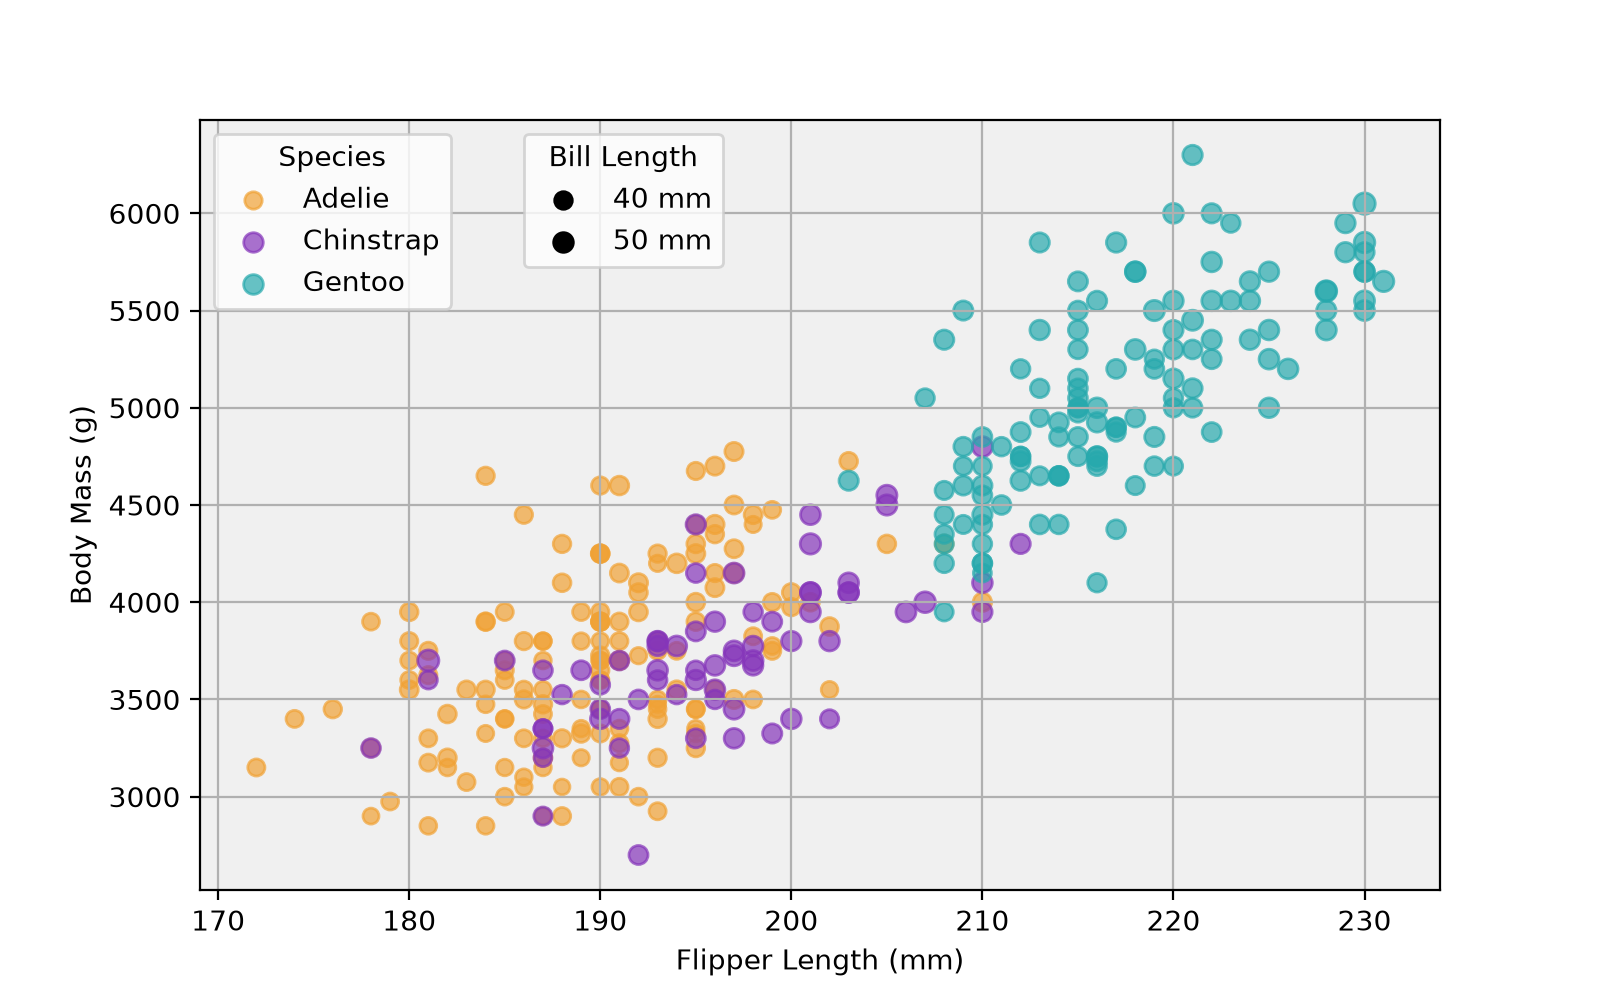
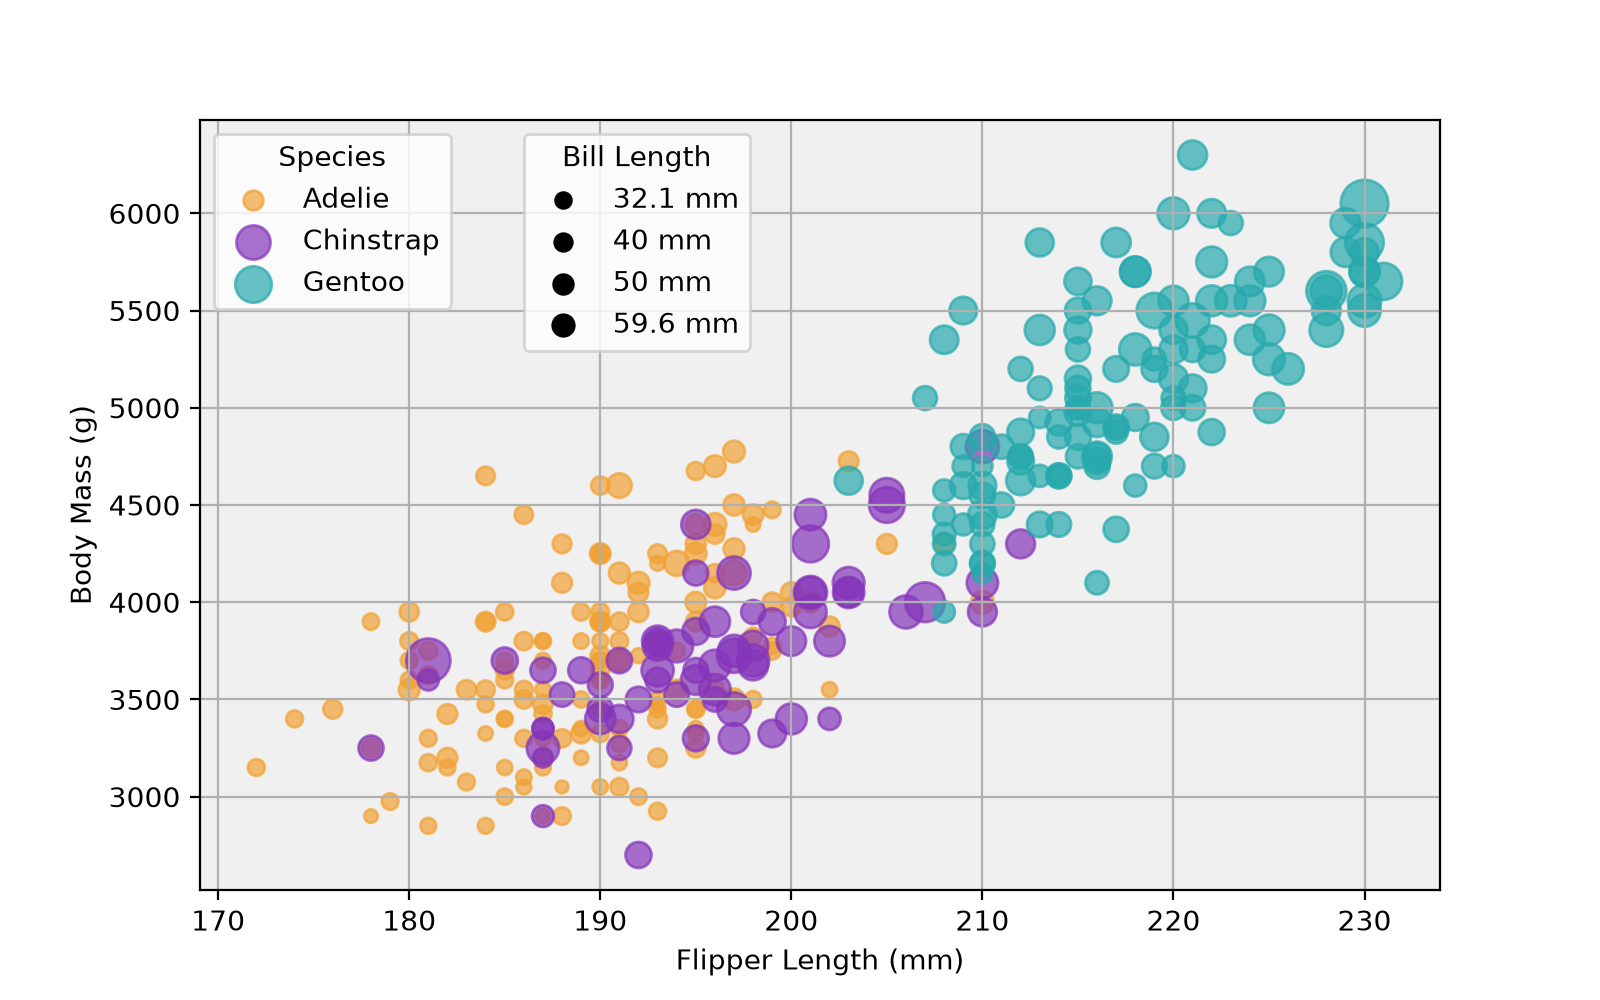
Flourish
Minor edits to graph, and FlourishV1 plot

diff --git a/plot.py b/plot.py
@@ -5,6 +5,7 @@ import matplotlib.pyplot as plt
 data = pd.read_csv("penglings.csv")
 penguin_size = data.bill_length_mm
 data = data.drop(columns = ["island", "sex", "year", "bill_depth_mm"])
+data = data.dropna()
 
 fig, ax = plt.subplots(figsize=(8,5))
 
@@ -18,7 +19,7 @@ for species in colorMap:
     ax.scatter(
         x=subset["flipper_length_mm"],
         y=subset["body_mass_g"],
-        s=(subset["bill_length_mm"]*2.5),
+        s=(1.1**(subset["bill_length_mm"])),
         c=colorMap[species],
         label=species
     )
@@ -32,16 +33,16 @@ ax.grid(True)
 species_legend = plt.legend(title="Species", loc="upper left")
 ax.add_artist(species_legend)
 ##legend two
-size_values = [40, 50]
+size_values = [32.10, 40, 50, 59.60]
 size_handles = [
     plt.scatter([],[],s=v, color="black")
     for v in size_values]
 size_lables= [f"{v} mm" for v in size_values]
 ax.legend(
-    handles=size_handles,
+    handles=np.array(size_handles),
     labels=size_lables,
     title="Bill Length",
     loc="upper left",
     bbox_to_anchor=(0.25, 1)
 )
-plt.savefig("pythonPlt.png",dpi=200)
+plt.savefig("img/pythonPlt.png",dpi=200)

diff --git a/README.md b/README.md
@@ -1,14 +1,24 @@
 Assignment 2 - Data Visualization, 5 Ways  
 ===
+Default:
+![Default](img/ggplot2.png)
+This was the goal that I was attempting to recreate in different tools/libraries
 
 Python with Matplotlib:
 ![matplotLib](img/pythonPlt.png)
 This was fairly easy for a library, although knowing pyhton or having experience definitely helps. I really struggled to get legends to work. Having two seperate legends required a handler. Also I fought with placment of the legends for a long time. I wanted them to be on the right and outside of the graph which seemed doable with "outer upper right" but there were two placement methods and the one that worked with my code did not allow for "outer". I also had to offset the second legend so they were readable. 
+I set the size of the dots to be 1.1^(bill_length_mm) which made the change in size more distinct wile still being readable. For some reason this made the legends a bit weird where the Species legend ended up having diffent sized dots. I don't know what exactly the size is based on but I would assume it was the average size per species. Annoyingly the size legend didn't actually show that much of a difference. This is why I used exponential in the data drawing portion, but I was unable to appy that change to the legend.
 Shout out to Benjamin Greenwood for his help with coding
 
 Tableau:
-![Tableu](img/Tabbleu_penguin.png)
-This was extremely easy. In total took me maybe 15 minutes. At first I found tableau public desktop to be a bit confulsing, but quickly learned that it worked by dragging data attributes onto graph attributes. For example dragging Species onto the color icon to get points to be colored by species. This was amazing and I would love to use it again in the future. Intrestingly I notices that there were more "bill_length_mm" than in the example and I do not know why exactly, but I think the overal outcome is the same. 
+![Tableau_2ndVersion](img/Tableau_update.png)
+This was extremely easy. In total took me maybe 15 minutes. At first I found tableau public desktop to be a bit confulsing, but quickly learned that it worked by dragging data attributes onto graph attributes. For example dragging Species onto the color icon to get points to be colored by species. This was amazing and I would love to use it again in the future. Intrestingly I notices that there were more "bill_length_mm" than in the example and I do not know why exactly, but I think the overal outcome is the same.
+Version 2: I changed the colors and messed around with size to make the scaling more noticable. I had used "Edit in Shef" then 2*[Bill_length_mm] but then the legend was only showing the multiplied version, so I undid that. 
+
+D3 and JS:
+
+Fourish:
+![Flourish](img/Flourish_penguin.png)
 
 
 These features should be preserved as much as possible in your replication:
